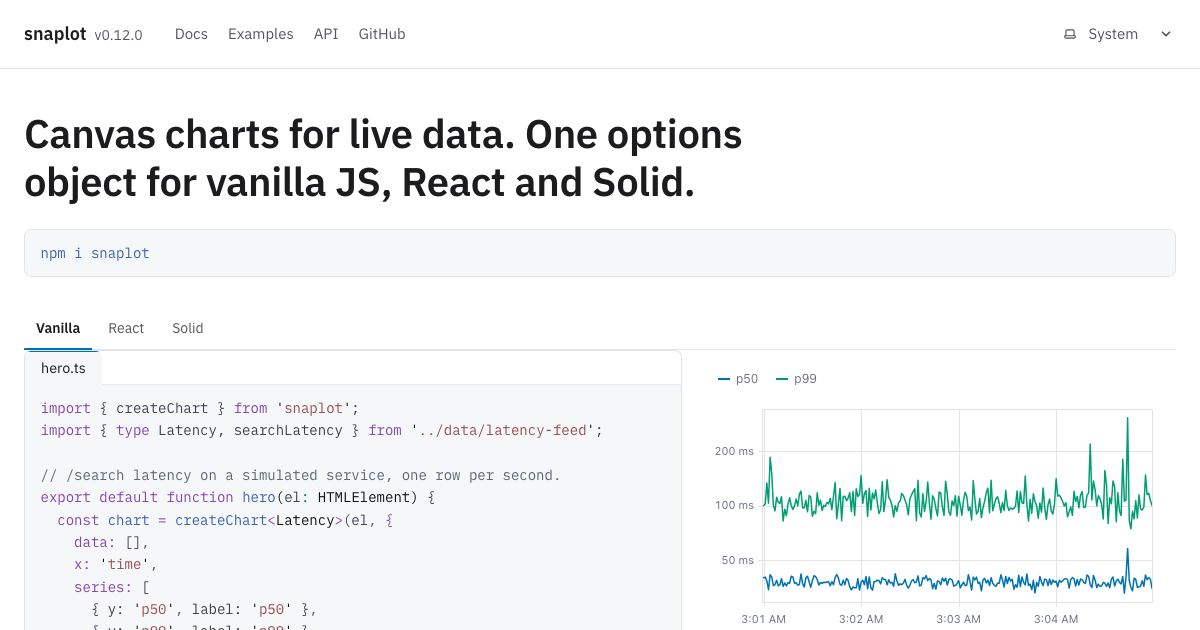
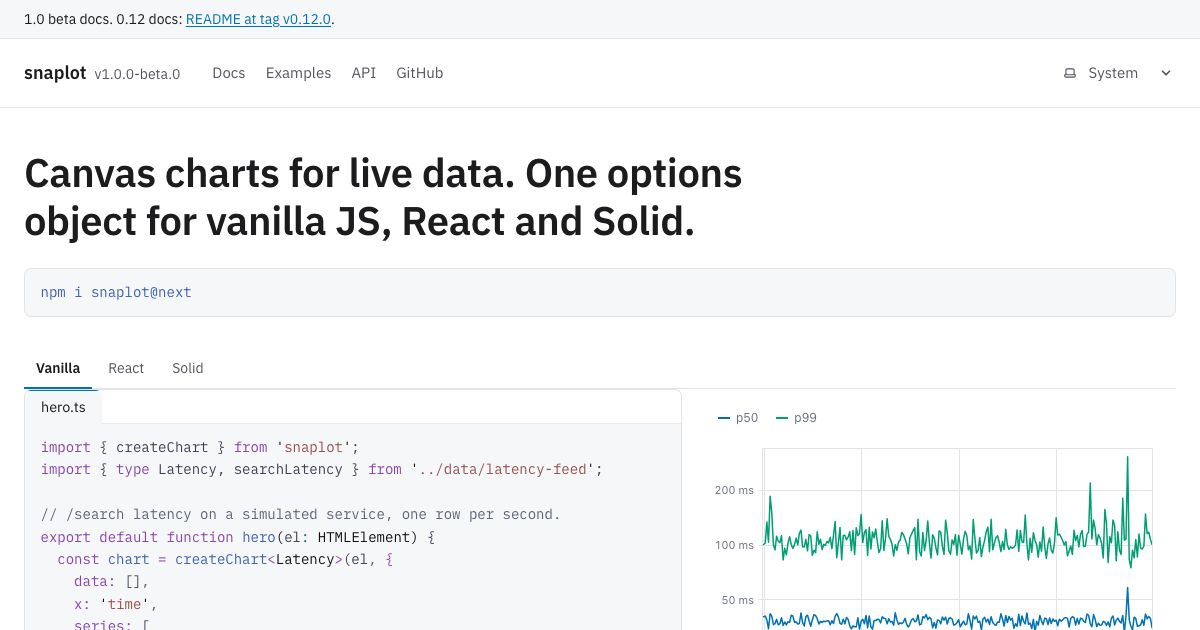
fix(site): a two-column examples gallery on wide screens, whole edge days in Central Park, no shortcut hint on phones
Found in the last polish review:
- At 1440 px the hub's one-row-per-example list left a third of the
  page empty; from 72rem it is two examples a line, each thumbnail
  the width of its column, with the cards' text aligned.
- Central Park's first and last daily bars read darker: the bands
  that veil the bars ended at the first and last days' centres. The
  bands now take copies of those days half a day out, so they reach
  the plot edges.
- The search button showed "⌘ K" on phones; the hint is hidden on
  narrow screens and coarse pointers.
Thumbnails and the social card regenerated.

diff --git a/site/src/demos/central-park-summer/main.ts b/site/src/demos/central-park-summer/main.ts
@@ -84,12 +84,25 @@ export async function mount(root: HTMLElement): Promise<ChartHandle<SummerRow>> 
   const summer = rows(data);
   const answer = summarize(data);
 
+  // The bands run to the plot's edges, half a day past the first and last days, so the edge days'
+  // bars sit under the same veil as the rest: copies of those days at the edges, at ISO times.
+  const iso = (ms: number) => new Date(ms).toISOString();
+  const first = summer[0];
+  const last = summer.at(-1);
+  const veil = [
+    ...(first ? [{ ...first, t: iso(dayEdge(first.date, -1)!) }] : []),
+    ...summer.map((day) => ({ ...day, t: `${day.date}T00:00:00.000Z` })),
+    ...(last ? [{ ...last, t: iso(dayEdge(last.date, 1)!) }] : []),
+  ];
+
   const chart = createChart(part(root, 'chart'), {
     data: summer,
     x: 'date',
     series: [
       {
         type: 'band',
+        data: veil,
+        x: 't',
         id: 'record',
         label: `Record range, ${data.recordYears.join('–')}`,
         y: 'normalMedian',
@@ -101,6 +114,8 @@ export async function mount(root: HTMLElement): Promise<ChartHandle<SummerRow>> 
       },
       {
         type: 'band',
+        data: veil,
+        x: 't',
         id: 'normal',
         label: `Normal range of highs, ${data.normalYears.join('–')}`,
         y: 'normalMedian',
